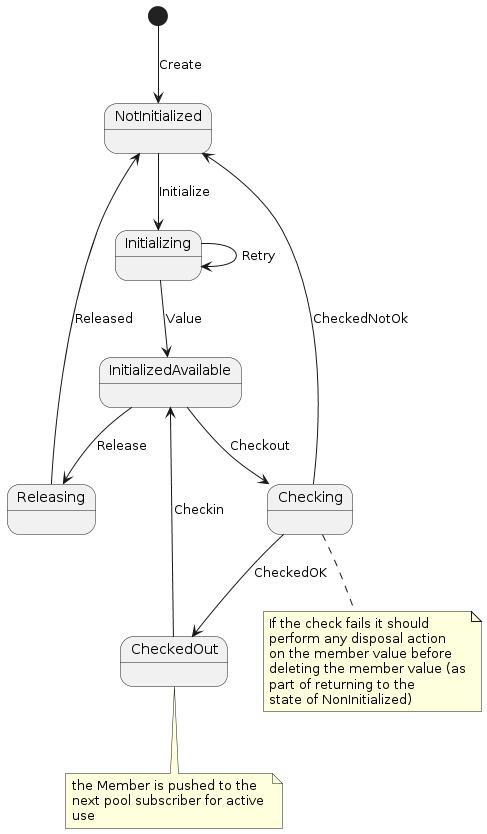
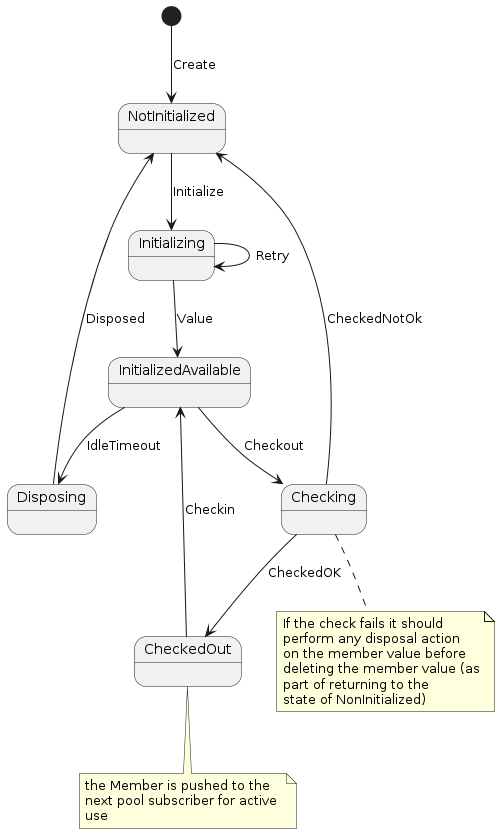
update diagram

diff --git a/README.md b/README.md
@@ -38,6 +38,6 @@ Pool<Connnection> pool =
     .build();
 ```
 
-The `Single<Member>` returned by `Pool.member()` can be subscribed to as many times as you like, concurrently if desired.
+The `Single<Member>` returned by `Pool.member()` can be subscribed to as many times as you like, concurrently if desired. The subscriber will be emitted to with a `Member` that has a value and when the subscriber has finished should call `Member.checkin()` to return the item to the pool.
 
 Note that the *release* (*dispose*) action should not throw, nor should the *checker* action. The *initializing* action may throw and if it does will be subject to retries on user-specified interval.
